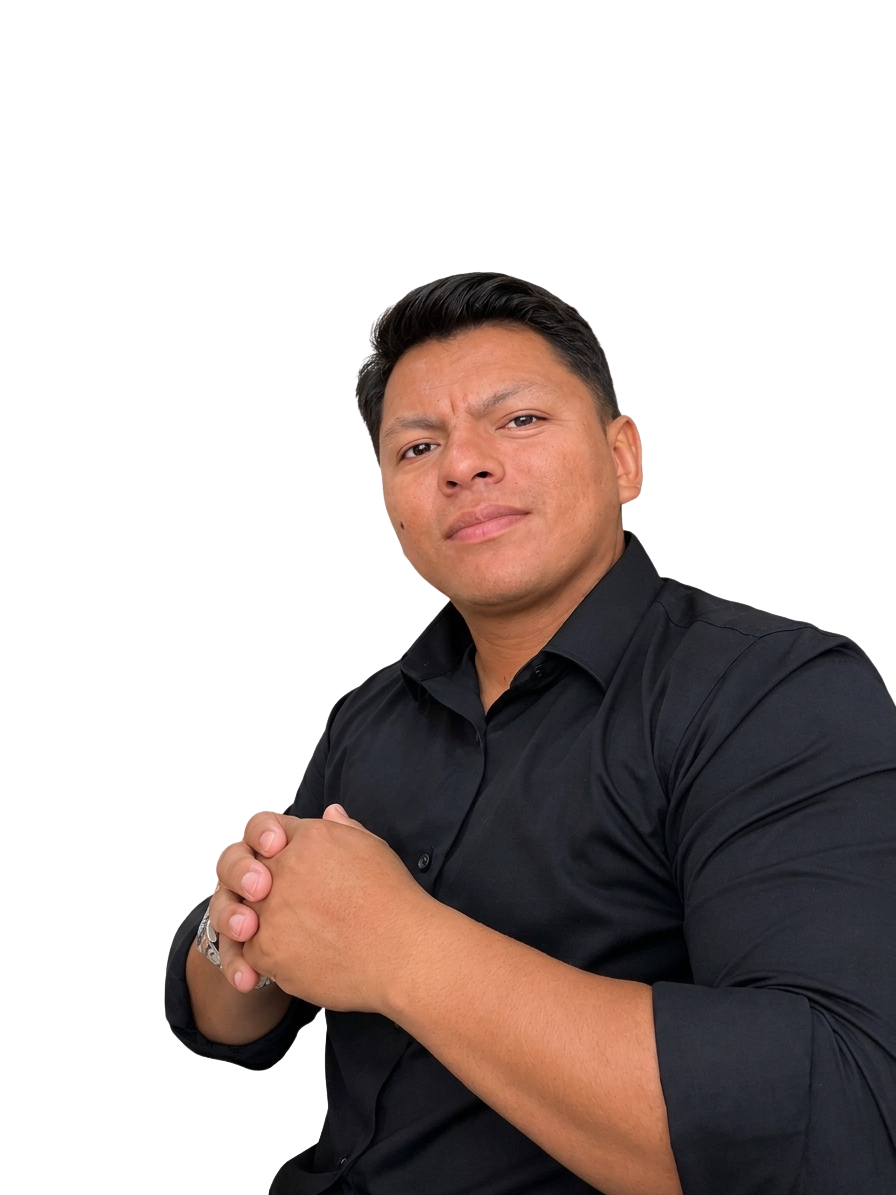
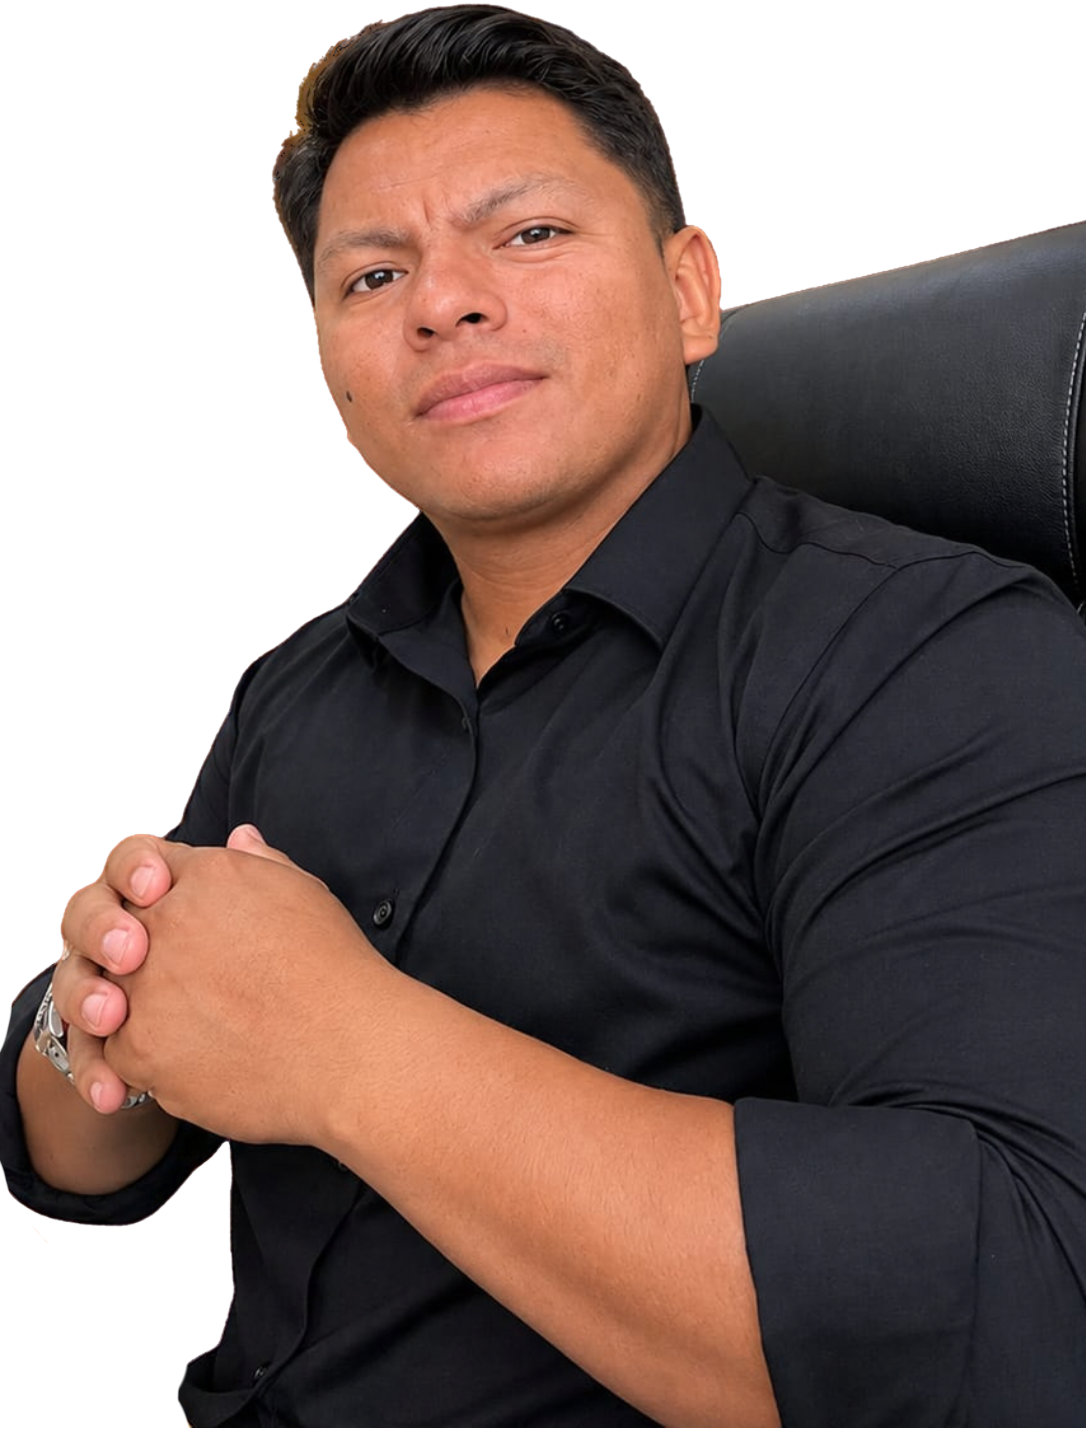
nova imagem na cadeira

diff --git a/public/style.css b/public/style.css
@@ -50,7 +50,7 @@ a { color: inherit; }
 
 /* ---------- Topo ---------- */
 .topo {
-  position: fixed; top: 32px; left: 0; right: 0; z-index: 50;
+  position: fixed; top: 22px; left: 0; right: 0; z-index: 50;
   background: transparent; border-bottom: 1px solid transparent;
   transition: background .3s, border-color .3s, backdrop-filter .3s;
 }
@@ -92,8 +92,8 @@ a { color: inherit; }
   color: #d9c7b0; font-size: .95rem; font-weight: 500;
 }
 .hero-badge i { width: 8px; height: 8px; border-radius: 50%; background: var(--ouro); flex: none; box-shadow: 0 0 8px rgba(210, 164, 71, .8); }
-.hero-foto { position: absolute; z-index: 1; right: 9%; bottom: -30px; top: -90px; display: flex; align-items: flex-end; pointer-events: none; }
-.hero-foto img { display: block; height: 100%; width: auto; max-width: none; }
+.hero-foto { position: absolute; z-index: 1; right: 0%; bottom: -10px; top: -50px; display: flex; align-items: flex-end; pointer-events: none; }
+.hero-foto img { display: block; height: 80%; width: auto; max-width: none; }
 
 /* ---------- Seções ---------- */
 .secao { padding: 5.5rem 0; }
